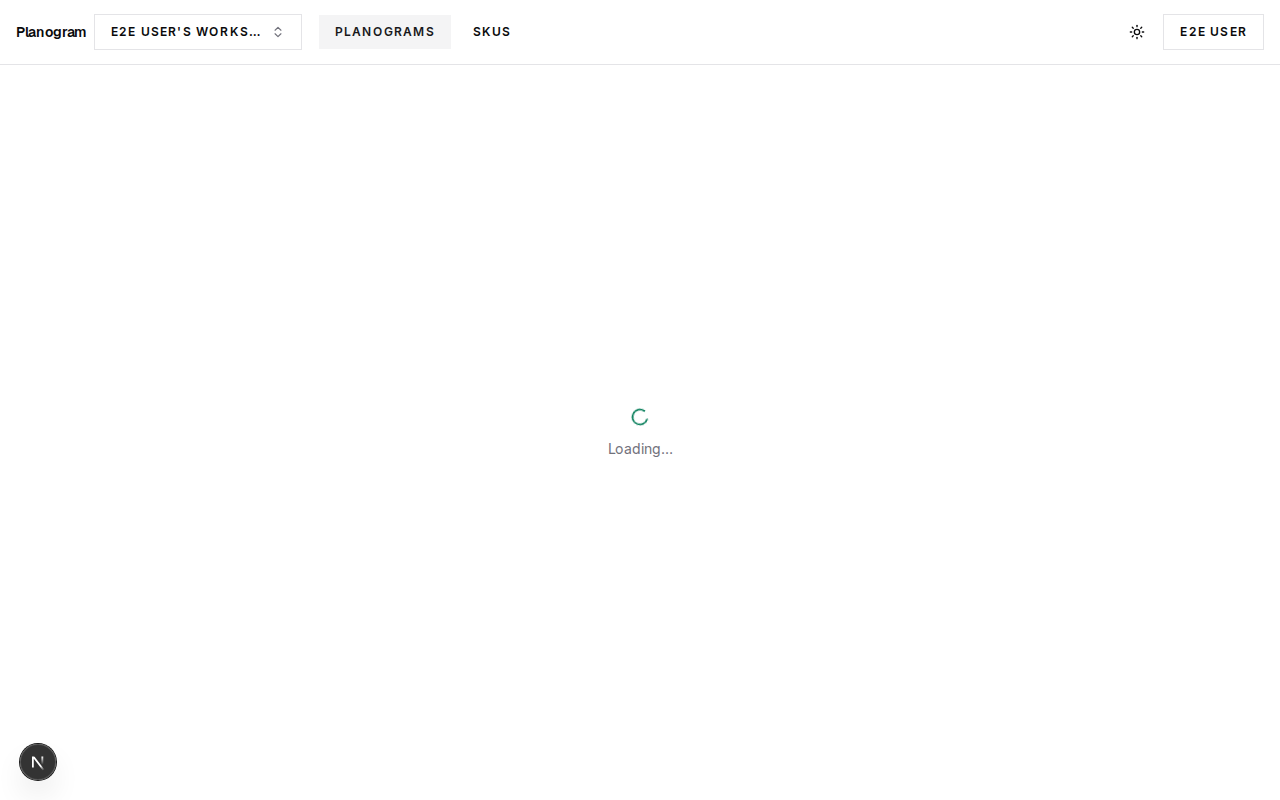
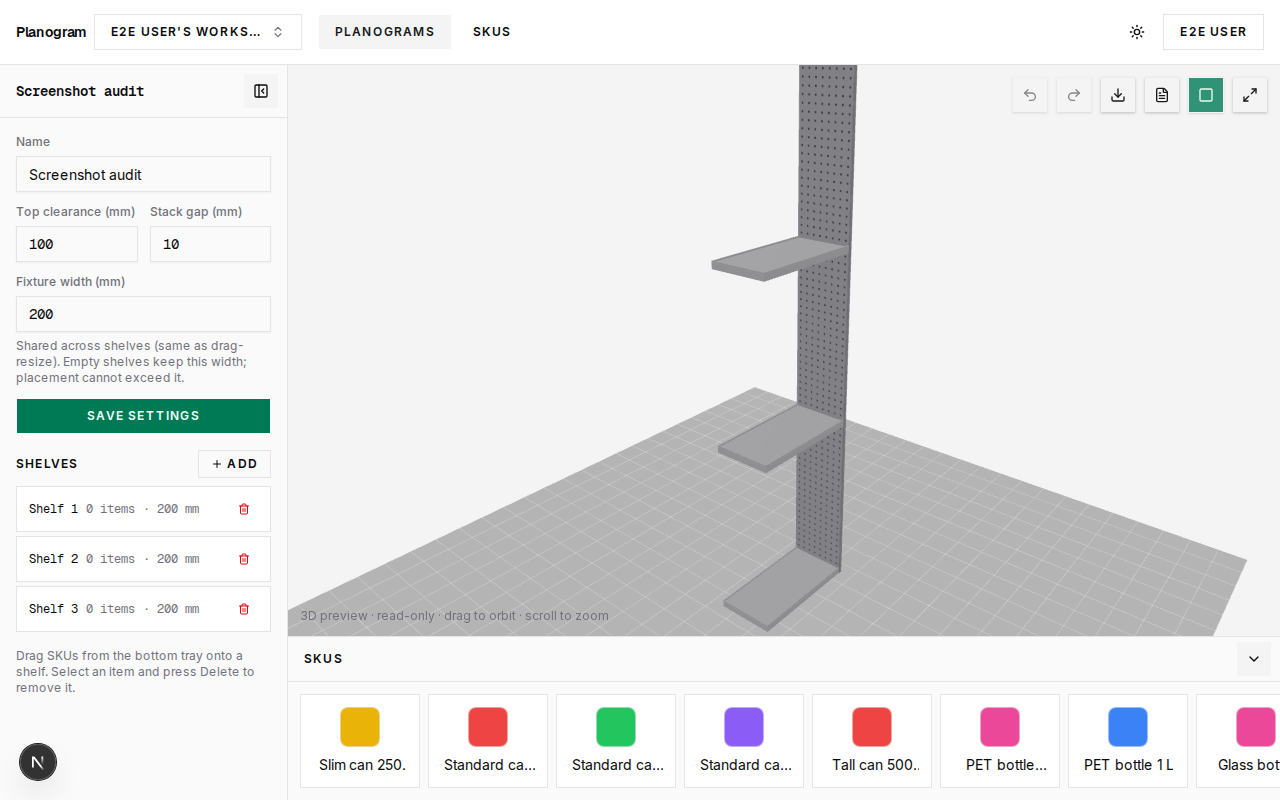
Fix README screenshots and capture load waits (PLA-110). (#78)
* Wait for editor load before screenshot capture. (PLA-110).

* Refresh README screenshots with loaded editor captures. (PLA-110).

---------

diff --git a/README.md b/README.md
@@ -6,17 +6,33 @@ Retail shelf layout editor — place SKUs on shelves in millimeters, adjust faci
 
 ## Screenshots
 
-Captured from a local dev run (`pnpm screenshots` → curated under `docs/readme/`).
+Light-theme captures from `pnpm screenshots` (curated in `docs/readme/`).
 
-| Planogram editor (2D) | Planogram editor (3D) |
-| --- | --- |
-| ![Planogram editor — 2D shelf layout](docs/readme/planogram-editor-2d.png) | ![Planogram editor — 3D preview](docs/readme/planogram-editor-3d.png) |
+### Planogram editor (2D)
+
+Drag SKUs from the bottom tray onto shelves; fixture width and shelf settings in the sidebar.
+
+![Planogram editor — 2D shelf layout with SKU tray](docs/readme/planogram-editor-2d.png)
+
+### Planogram editor (3D)
+
+Read-only WebGL preview from the same layout — orbit and zoom in the viewport.
+
+![Planogram editor — 3D preview](docs/readme/planogram-editor-3d.png)
+
+### SKU catalog & packaging editor
+
+Workspace SKU list with import; per-SKU packaging editor with live 2D face preview.
 
 | SKU catalog | Packaging editor |
 | --- | --- |
-| ![SKU catalog](docs/readme/sku-catalog.png) | ![SKU packaging editor with 2D/3D preview](docs/readme/sku-packaging-editor.png) |
+| ![SKU catalog with seed cans and bottles](docs/readme/sku-catalog.png) | ![SKU packaging editor — Slim can 250 ml](docs/readme/sku-packaging-editor.png) |
 
-| Planogram list | Billing (Free / Unlimited) |
+### Planograms & billing
+
+Catalog list and workspace billing (Free / Unlimited upgrade path).
+
+| Planogram list | Billing |
 | --- | --- |
 | ![Planogram list](docs/readme/planogram-list.png) | ![Workspace billing settings](docs/readme/billing.png) |
 